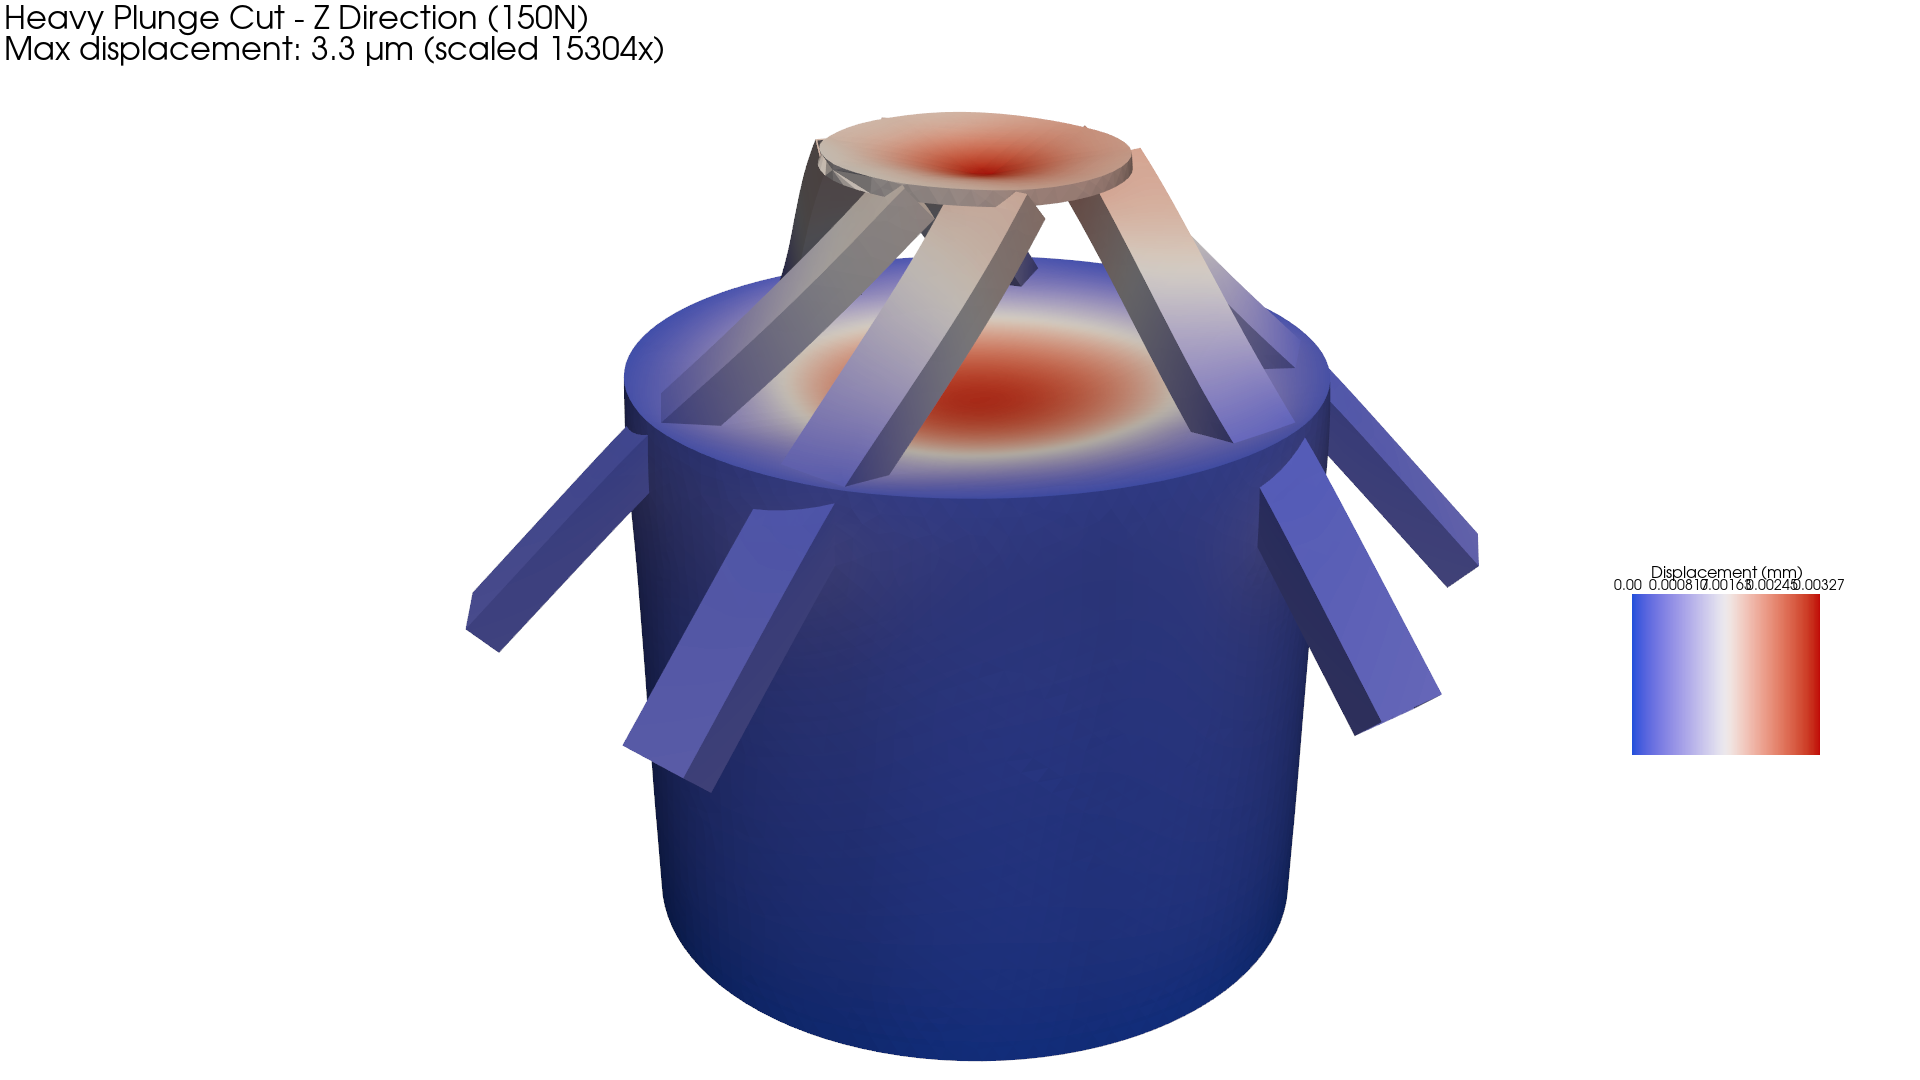
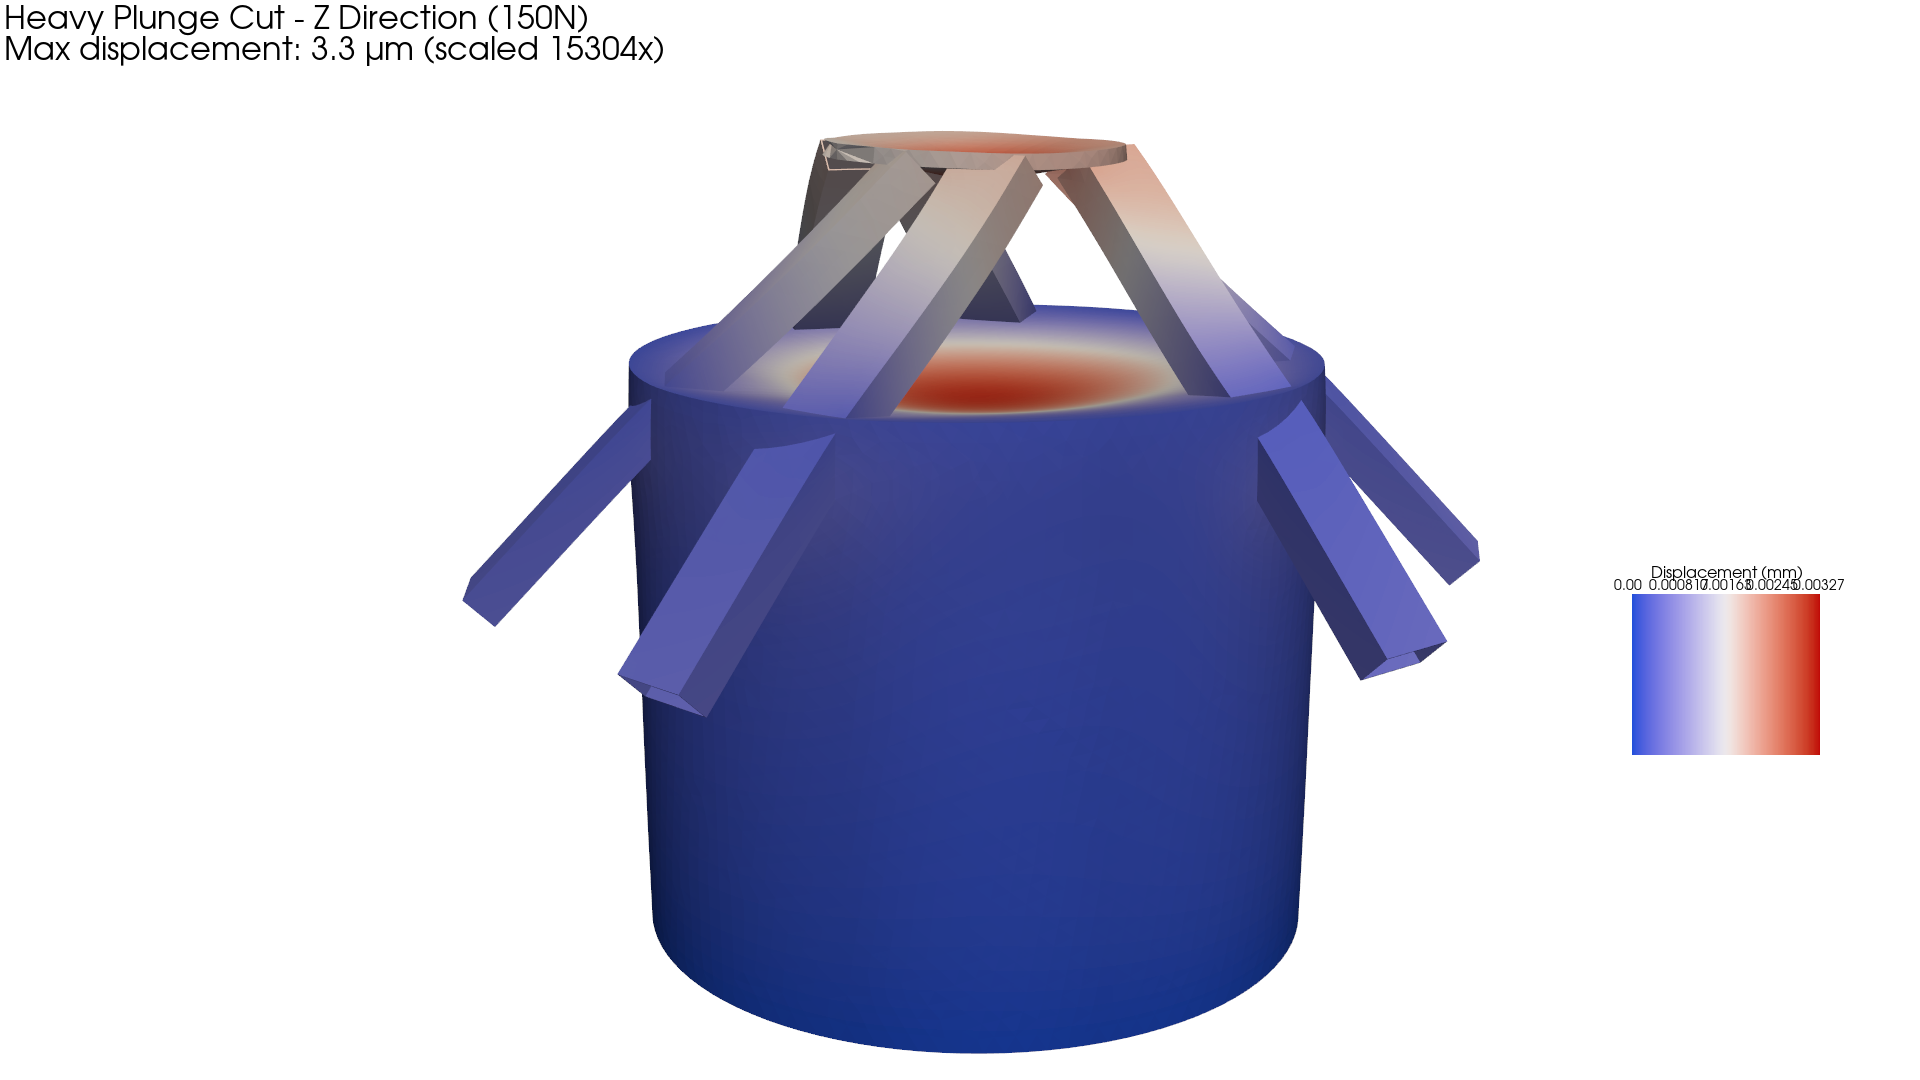
Lower camera angle to show pillar structure

diff --git a/fem/visualization/render_hexapod.py b/fem/visualization/render_hexapod.py
@@ -120,7 +120,8 @@ def render_load_case(h5_path: Path, title: str, output_name: str, scale_mm: floa
                      f"Max displacement: {max_disp*1000:.1f} \u03bcm (scaled {scale_factor:.0f}x)",
                      position='upper_left', font_size=14, color='black')
 
-    setup_isometric_camera(plotter, warped, elevation=25, azimuth=45)
+    # Lower elevation to show pillar extending below base
+    setup_isometric_camera(plotter, warped, elevation=15, azimuth=45)
 
     output_path = IMAGES_DIR / f"{output_name}.png"
     plotter.screenshot(str(output_path))
@@ -152,7 +153,8 @@ def render_undeformed_mesh(msh_path: Path, output_name: str):
                      f"Nodes: {n_points:,}  Elements: {n_cells:,}",
                      position='upper_left', font_size=14, color='black')
 
-    setup_isometric_camera(plotter, mesh, elevation=25, azimuth=45)
+    # Lower elevation to show pillar extending below base
+    setup_isometric_camera(plotter, mesh, elevation=15, azimuth=45)
 
     output_path = IMAGES_DIR / f"{output_name}.png"
     plotter.screenshot(str(output_path))
